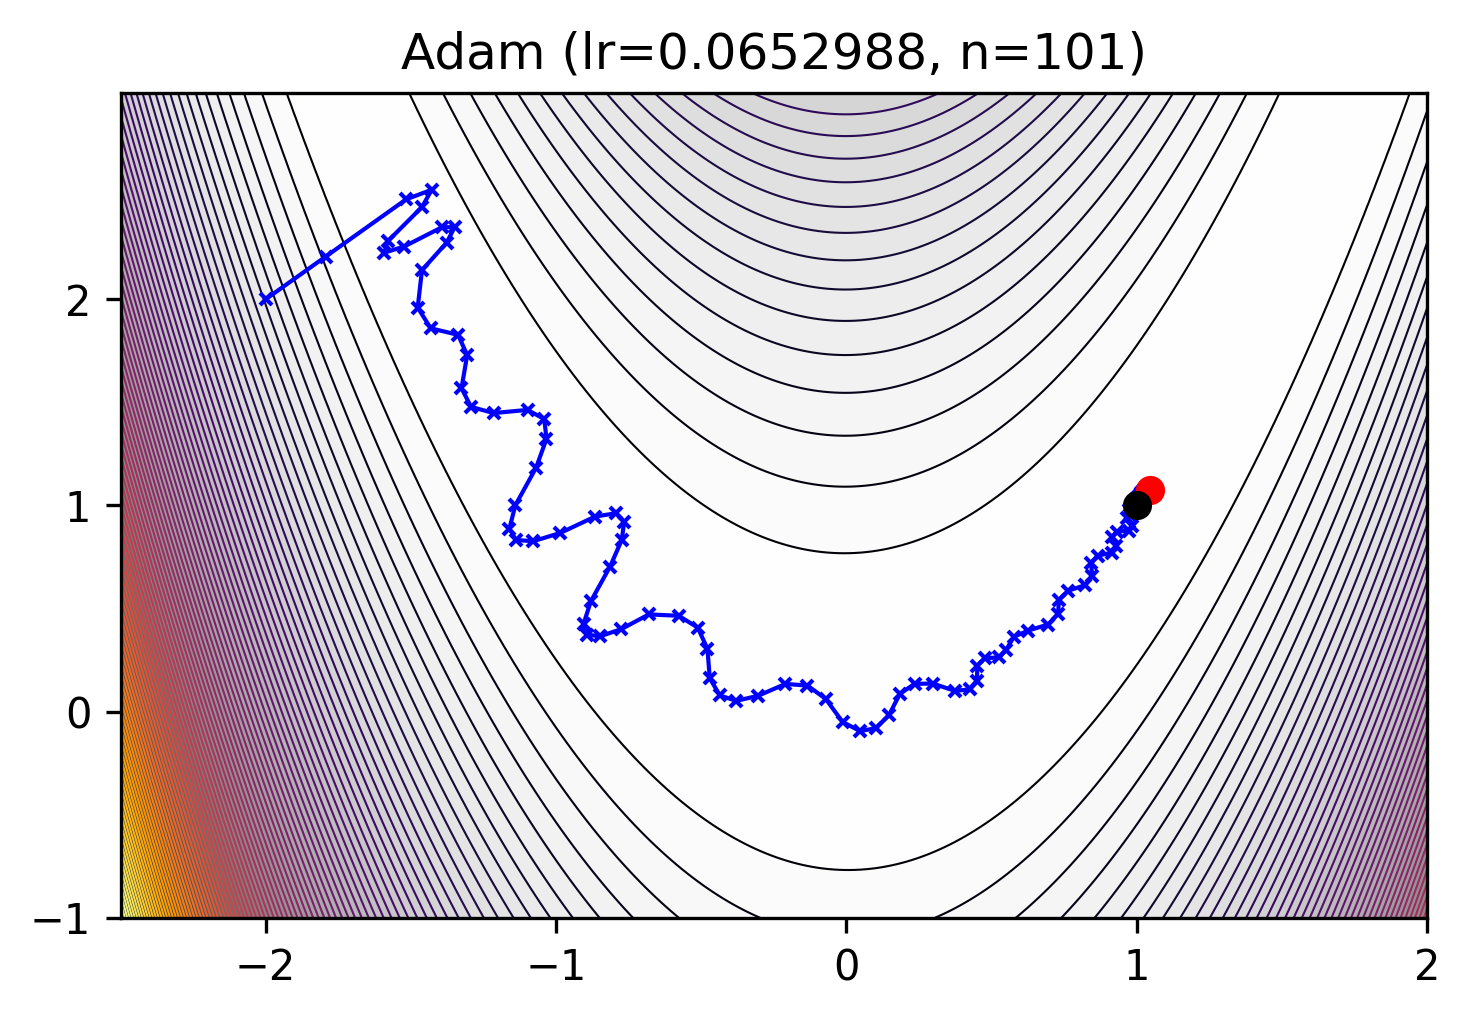
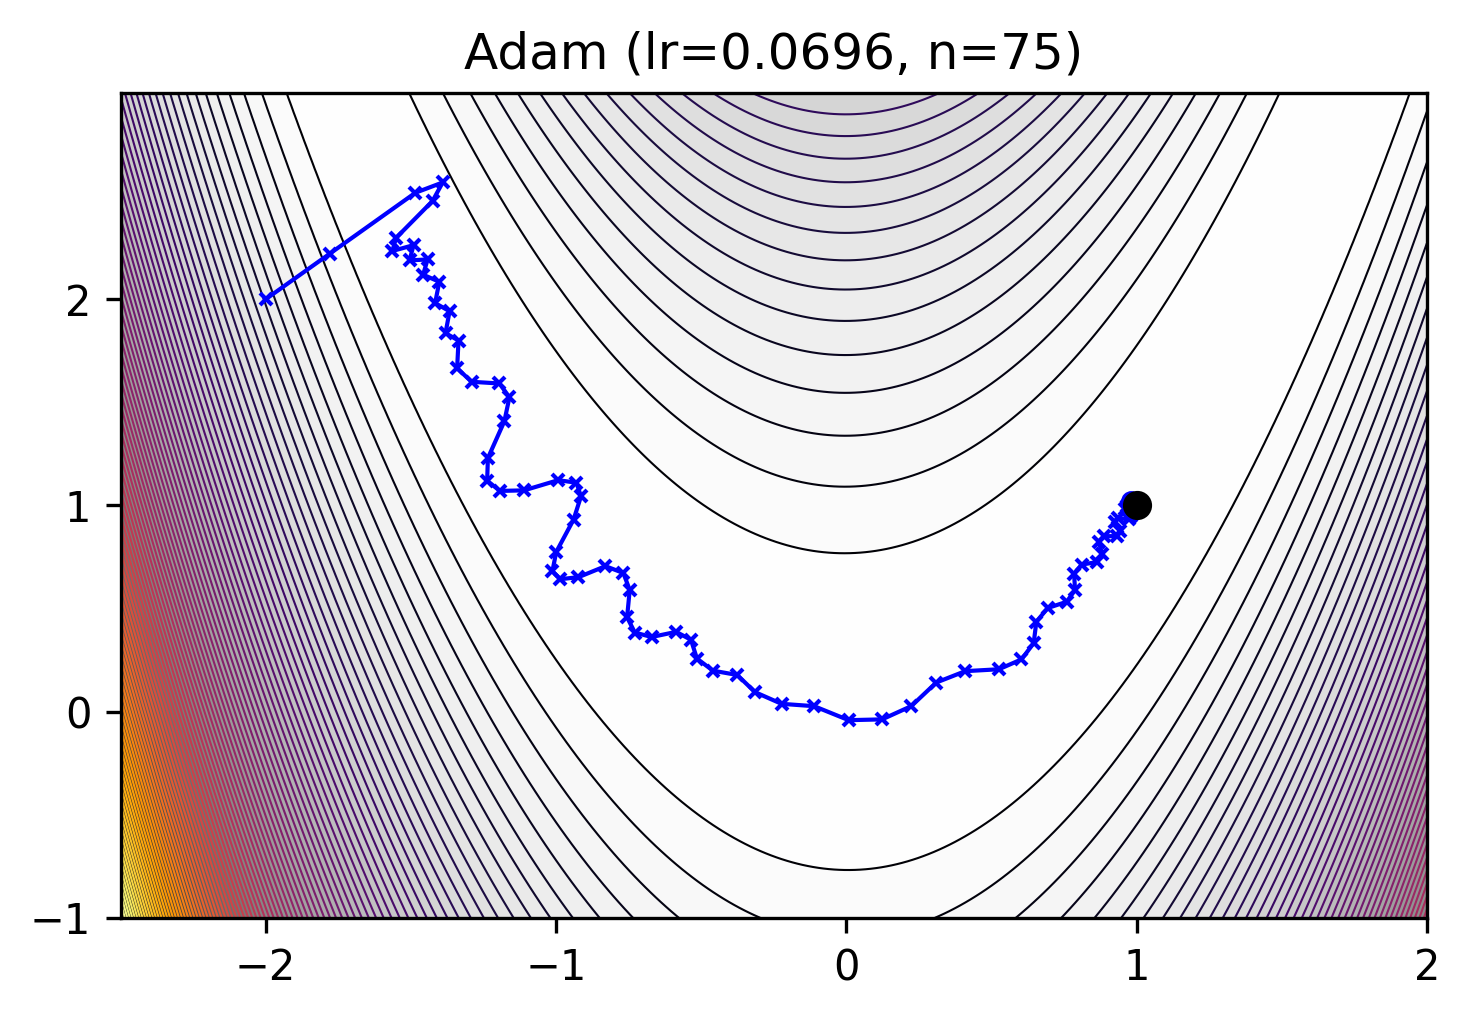
optim: madgrad added + additional tests

Changed region(s): [[0.2143, 0.1521, 0.7959, 0.7301], [0.2755, 0.0304, 0.7959, 0.0913]]

diff --git a/examples/visualize.py b/examples/visualize.py
@@ -1,3 +1,5 @@
+from typing import List
+
 import matplotlib.pyplot as plt
 import mlx.core as mx
 import numpy as np
@@ -39,29 +41,46 @@ def objective_rosenbrock(params):
     ).item()
 
 
-def plot_rosenbrock(steps, optimizer_name, lr):
+def plot_rosenbrock(steps: List[mx.array], name: str, title: str = "", labels: List[str] = []):
+
     X, Y = mx.meshgrid(mx.linspace(-2.5, 2, 250), mx.linspace(-1, 3, 250))
     Z = rosenbrock([X, Y])
 
     fig, ax = plt.subplots(figsize=(5, 3.5))
     ax.contour(X, Y, Z, levels=90, cmap="inferno", linewidths=0.5)
     ax.contourf(X, Y, Z, levels=90, cmap="binary")
-    ax.plot(steps[:, 0], steps[:, 1], color="b", marker="x", lw=1, ms=3)
-    ax.plot(steps[-1, 0], steps[-1, 1], color="r", marker="o", ms=6)
+
+    c1 = "b" if len(steps) == 1 else None
+    for i, st in enumerate(steps):
+        m = ax.plot(
+            st[:, 0],
+            st[:, 1],
+            color=c1,
+            marker="x",
+            lw=1,
+            ms=3,
+            label=labels[i] if labels else None,
+        )
+        ax.plot(st[-1, 0], st[-1, 1], marker="o", ms=4, color=m[0].get_color())
     ax.plot(ROSENBROCK_MINIMUM[0], ROSENBROCK_MINIMUM[1], c="k", marker="o", ms=6)
-    ax.set_title(f"{optimizer_name} (lr={lr:.6}, n={len(steps)})")
+
+    if labels:
+        ax.legend(fontsize=8, ncols=2, loc="upper right", columnspacing=0.8)
+    if title:
+        ax.set_title(f"{name} {title}")
     ax.xaxis.set_major_locator(plt.MaxNLocator(5))
     ax.yaxis.set_major_locator(plt.MaxNLocator(4))
     fig.tight_layout()
-    fig.savefig(f"../docs/media/rosenbrock_{optimizer_name}.png", dpi=300, bbox_inches="tight")
+    fig.savefig(f"../docs/media/rosenbrock_{name}.png", dpi=300, bbox_inches="tight")
 
 
 def execute_experiments(optimizers, objective, func, plot_func, initial_state):
+    all_steps, all_labels = [], []
     for optimizer, lr_low, lr_hi, optimizer_kwargs in optimizers:
         space = {
             "optimizer": hp.choice("optimizer", [optimizer]),
             "learning_rate": hp.uniform("learning_rate", lr_low, lr_hi),
-            "steps": 100,
+            "steps": 75,
             "optimizer_kwargs": optimizer_kwargs,  # additional kwargs
         }
         best = fmin(
@@ -72,21 +91,32 @@ def execute_experiments(optimizers, objective, func, plot_func, initial_state):
             rstate=np.random.default_rng(42),
         )
         if best:
-            print(f"{optimizer.__name__}: {best['learning_rate']}")
+            name = optimizer.__name__
+            print(f"{name}: lr={best['learning_rate']:.6f}")
             optimizer_instance = optimizer(learning_rate=best["learning_rate"], **optimizer_kwargs)
             steps = execute_steps(func, initial_state, optimizer_instance, space["steps"])
-            plot_func(steps, optimizer.__name__, best["learning_rate"])
+            plot_func(
+                [steps],
+                name=name,
+                title=f'(lr={best["learning_rate"]:.4f}, n={space["steps"]})',
+            )
+            if name not in ["AdamW", "SGD"]:
+                all_steps.append(steps)
+                all_labels.append(name)
+
+    plot_func(all_steps, name="all", labels=all_labels)
 
 
 if __name__ == "__main__":
     optimizers = [
         # default
-        (Adam, -1, 0.3, {}),
-        (SGD, -1, 0.3, {"momentum": 0.9, "nesterov": True}),
-        (AdamW, -1, 0.3, {}),
+        (Adam, 0, 0.2, {}),
+        (SGD, 0, 0.2, {"momentum": 0.9, "nesterov": True}),
+        (AdamW, 0, 0.2, {}),
         # custom
-        (optim.QHAdam, 0.01, 0.5, {}),
-        (optim.DiffGrad, 0.01, 0.5, {}),
+        (optim.QHAdam, 0, 0.5, {}),
+        (optim.DiffGrad, 0, 0.5, {}),
+        (optim.MADGRAD, 0, 0.5, {}),
     ]
     execute_experiments(
         optimizers, objective_rosenbrock, rosenbrock, plot_rosenbrock, ROSENBROCK_INITIAL

diff --git a/mlx_optimizers/madgrad.py b/mlx_optimizers/madgrad.py
@@ -1,0 +1,67 @@
+from typing import Callable, Union
+
+import mlx.core as mx
+from mlx.optimizers import Optimizer
+
+
+class MADGRAD(Optimizer):
+    r"""MADGRAD - A Momentumized, Adaptive, Dual Averaged Gradient Method for Stochastic
+    Optimization."""
+
+    def __init__(
+        self,
+        learning_rate: Union[float, Callable[[mx.array], mx.array]],
+        momentum: float = 0.9,
+        weight_decay: float = 0,
+        eps: float = 1e-6,
+    ):
+        super().__init__()
+        self._maybe_schedule("learning_rate", learning_rate)
+        self.momentum = momentum
+        self.weight_decay = weight_decay
+        self.eps = eps
+
+    def init_single(self, parameter: mx.array, state: dict):
+        state["v"] = mx.zeros_like(parameter)
+        state["s"] = mx.zeros_like(parameter)
+
+    def apply_single(self, gradient: mx.array, parameter: mx.array, state: dict):
+        eps = self.eps
+        lr = self.learning_rate.astype(gradient.dtype) + eps
+
+        # cheat code because __init_single__ has grad (not param)
+        if self.momentum != 0 and "x0" not in state:
+            state["x0"] = parameter
+
+        ck = 1 - self.momentum
+        lamb = lr * mx.sqrt(self.state["step"])
+
+        v = state["v"]
+        s = state["s"]
+
+        if self.weight_decay != 0:
+            gradient = gradient + self.weight_decay * parameter
+
+        if self.momentum == 0:
+            rms = mx.power(v, 1 / 3) + eps
+            x0 = parameter + s / rms
+        else:
+            x0 = state["x0"]
+
+        s = s + lamb * gradient
+        v = v + lamb * mx.square(gradient)
+        rms = mx.power(v, 1 / 3) + eps
+
+        if eps == 0:
+            rms = mx.where(rms != 0, rms, float("inf"))
+
+        if self.momentum == 0:
+            parameter = x0 - s / rms
+        else:
+            z = x0 - s / rms
+            parameter = (1 - ck) * parameter + ck * z
+
+        state["v"] = v
+        state["s"] = s
+
+        return parameter

diff --git a/mlx_optimizers/__init__.py b/mlx_optimizers/__init__.py
@@ -2,7 +2,9 @@ from .version import VERSION, VERSION_SHORT
 
 __version__ = VERSION
 
-
 from .diffgrad import DiffGrad
+from .madgrad import MADGRAD
 from .muon import Muon
 from .qhadam import QHAdam
+
+__all__ = ["DiffGrad", "Muon", "QHAdam", "MADGRAD", "__version__"]

diff --git a/tests/test_neuralnet.py b/tests/test_neuralnet.py
@@ -61,6 +61,7 @@ optimizers = [
     (optim.QHAdam, {"learning_rate": 0.01}, 500),
     (optim.DiffGrad, {"learning_rate": 0.01}, 500),
     (optim.Muon, {"learning_rate": 0.01}, 500),
+    (optim.MADGRAD, {"learning_rate": 0.01}, 500),
 ]
 
 

diff --git a/tests/test_basic.py b/tests/test_basic.py
@@ -36,6 +36,7 @@ def ids(v):
 optimizers = [
     (optim.QHAdam, {"learning_rate": 0.25}, 300),
     (optim.DiffGrad, {"learning_rate": 0.3}, 300),
+    (optim.MADGRAD, {"learning_rate": 0.03}, 300),
 ]
 
 
